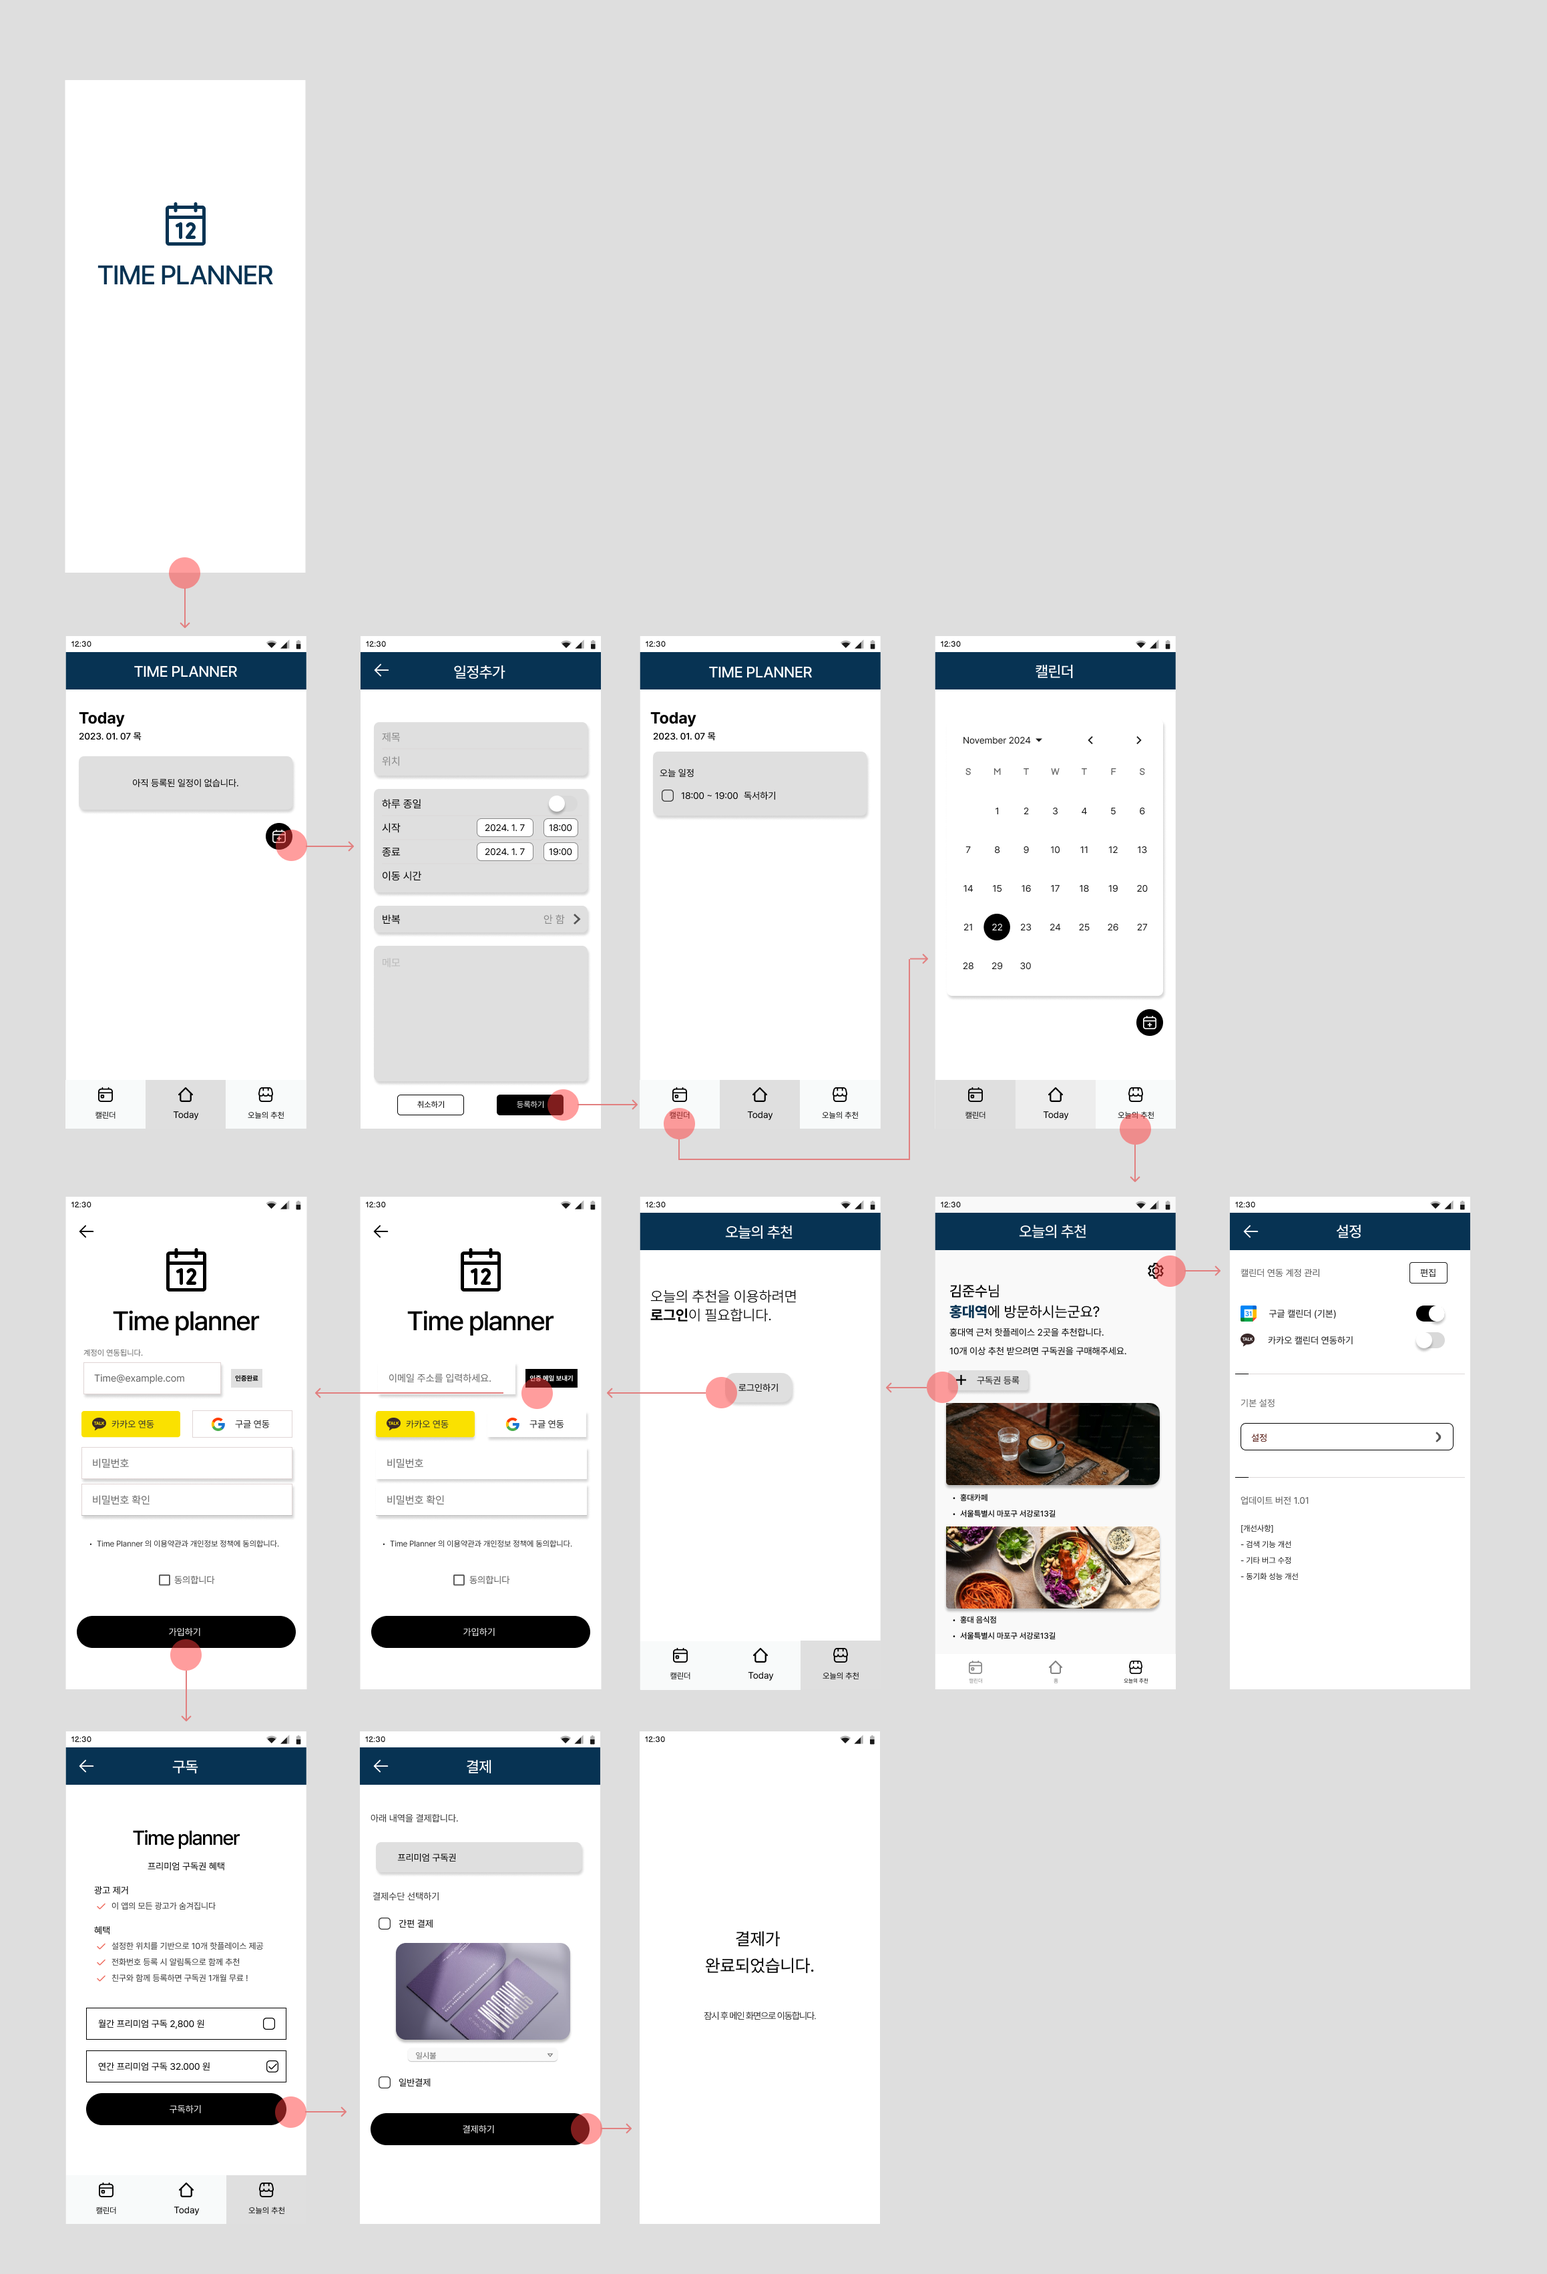
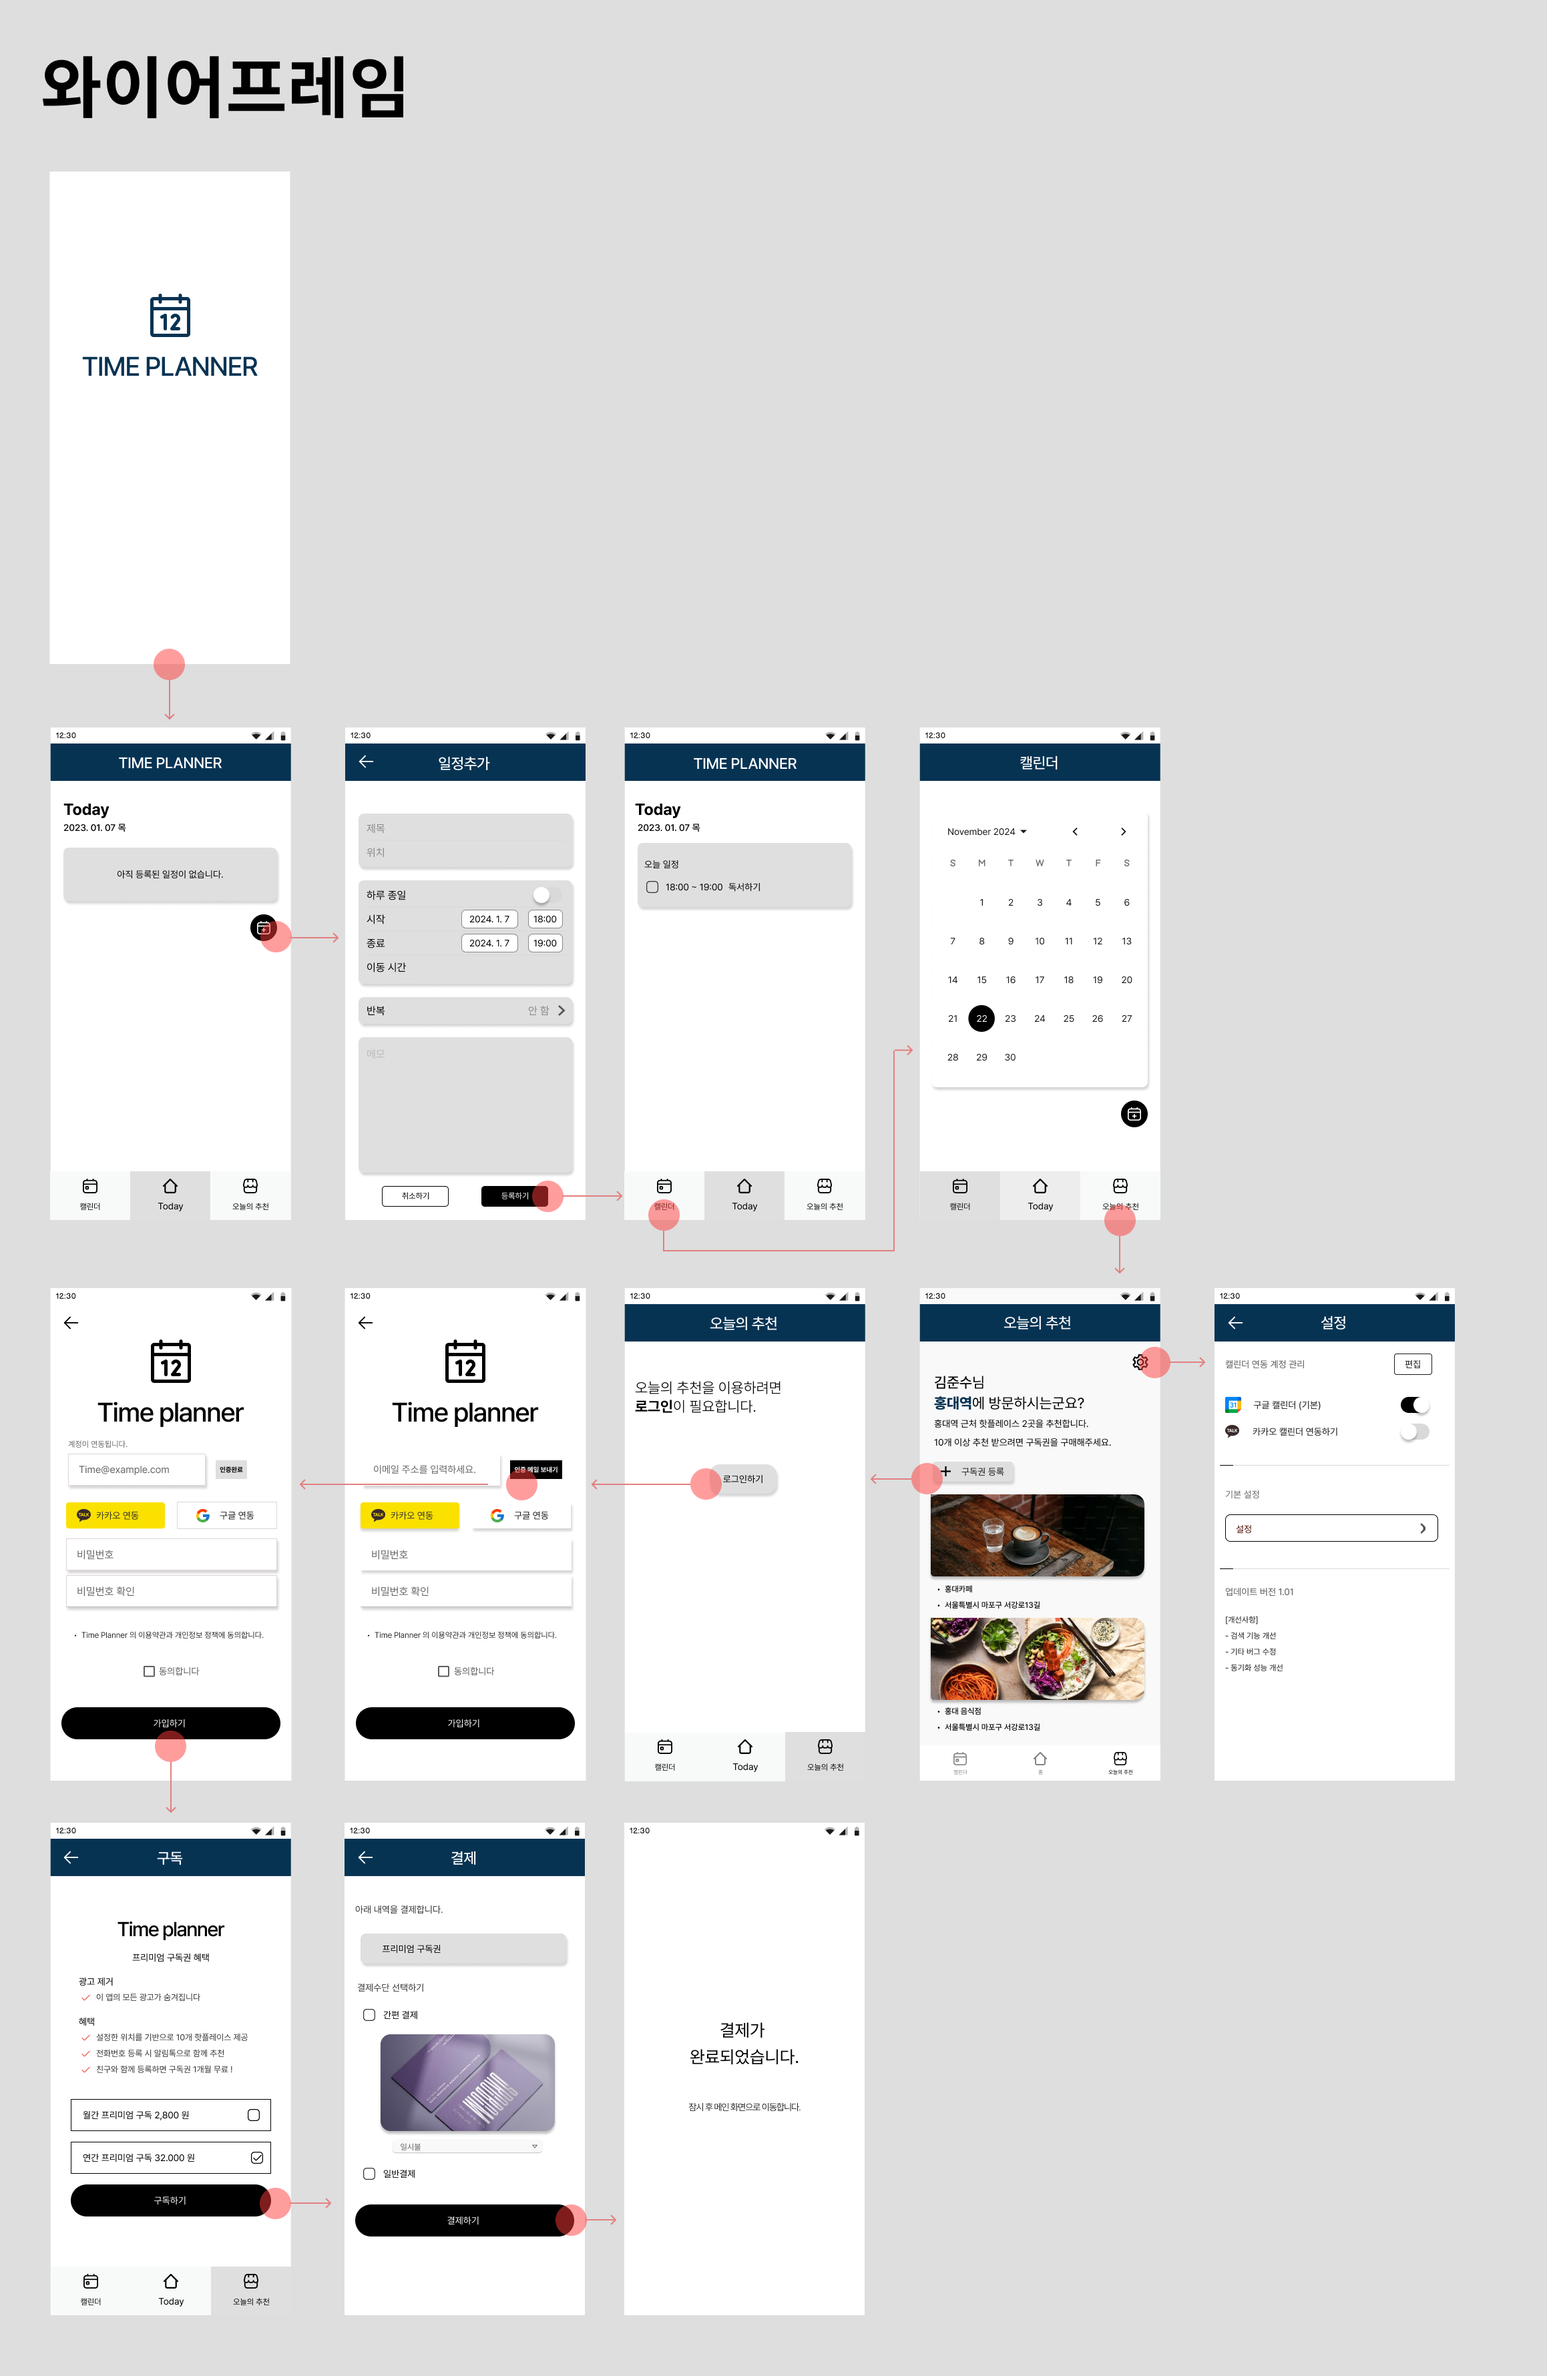
작업물 내용  수정

Changed region(s): [[0.0311, 0.0, 0.9633, 0.9956], [0.4661, 0.84, 0.5283, 0.8711]]

diff --git a/index.html b/index.html
@@ -103,7 +103,7 @@
                     </div>
                 </article><!--project -->
                 <button type="button" class="collapsible" onclick="collapse(this);">작업물 상세보기</button>
-                <div class="content_box flexbox">
+                <div class="content_box">
                     <div class="code_img">
                         <img src="./images/project1_fade-in.png" alt="code_img">
                         <img src="./images/project1_nav.png" alt="code_img">
@@ -149,7 +149,7 @@
                     </div>
                 </article><!--project -->
                 <button type="button" class="collapsible" onclick="collapse(this);">작업물 상세보기</button>
-                <div class="content_box flexbox">
+                <div class="content_box">
                     <div class="code_img">
                         <img src="./images/project2_main.png" alt="code_img">
                         <img src="./images/project2_gnb.png" alt="code_img">
@@ -188,10 +188,10 @@
                     </div>
                 </article>
                 <button type="button" class="collapsible" onclick="collapse(this);">작업물 상세보기</button>
-                <div class="content_box flexbox">
-                    <div class="figma_box flexbox">
-                        <img src="./images/WireFrame.png" alt="">
-                        <img src="./images/Design.png" alt="">
+                <div class="content_box2">
+                    <div class="figma_box">
+                        <img src="./images/WireFrame.png" alt="WireFrame">
+                        <img src="./images/Design.png" alt="Design">
                     </div>
                 </div>
             </section>

diff --git a/css/main.css b/css/main.css
@@ -96,10 +96,31 @@ a {
 	transition: max-height 0.2s ease-out;
 	background-color: #f1f1f1;
 	width: 85%;
+	height: 600px;
 	margin-left: 7%;
+	display: flex;
+	flex-direction: column;
+	align-items: center;
+}
+.content_box2{
+	max-height: 0;
+	overflow: hidden;
+	transition: max-height 0.2s ease-out;
+	background-color: #f1f1f1;
+	width: 85%;
+	height: 800px;
+	margin-left: 7%;
+	display: flex;
+	flex-direction: column;
+	align-items: center;
+}
+.figma_box{
+	display: flex;
+	justify-content: center;
+	gap: 10%;
 }
 .figma_box > img{
-	width: 40%;
+	width: 30%;
 }
 .today{
 	display: flex;
@@ -117,7 +138,7 @@ a {
 	content:"▲";
 }
 .code_img{
-	width: 40%;
+	width: 50%;
 	display: flex;
 	gap: 5px;
 }
@@ -129,7 +150,7 @@ width: 50%;
 	font-size: 1.6rem;
 	letter-spacing: 0.1px;
 	text-align: center;
-	margin-top:7%;
+	margin-top:1%;
 }
 
 
@@ -765,19 +786,19 @@ footer {
 .figma_img{
 	position: absolute;
 	top: 0px;
-	width: 18%;
+	width: 20%;
 	left: 40%;
 }
 .figma_img2{
 	position: absolute;
 	top: 0px;
-	width: 18%;
+	width: 20%;
 	left: 60%;
 }
 .figma_img3{
 	position: absolute;
 	top: 0px;
-	width: 18%;
+	width: 20%;
 	left: 80%;
 }
 
